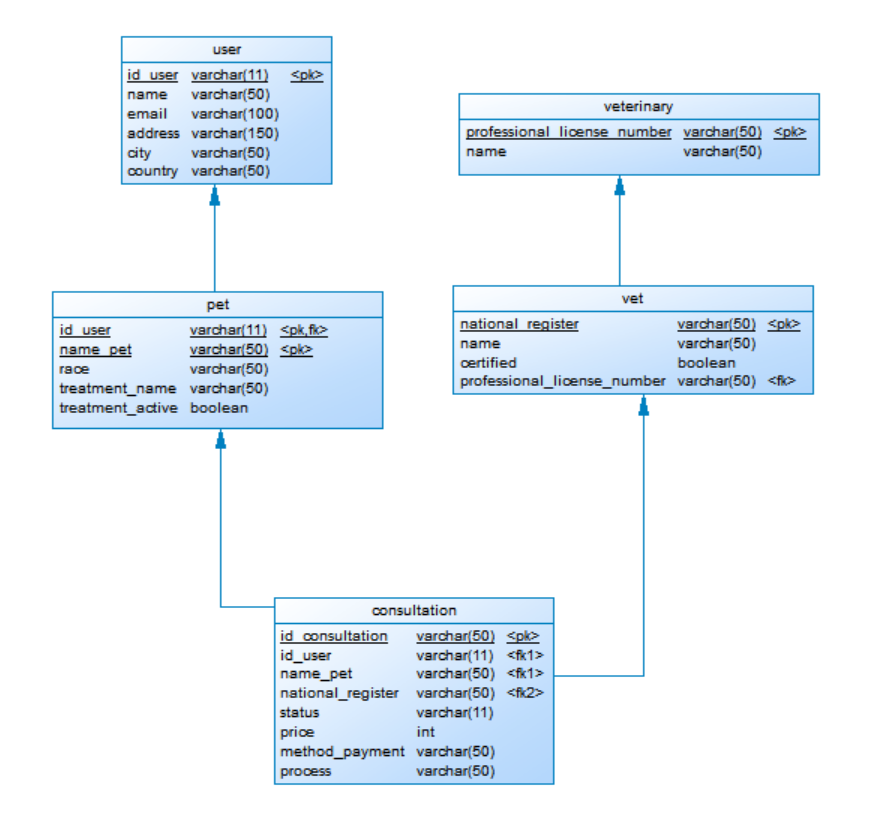
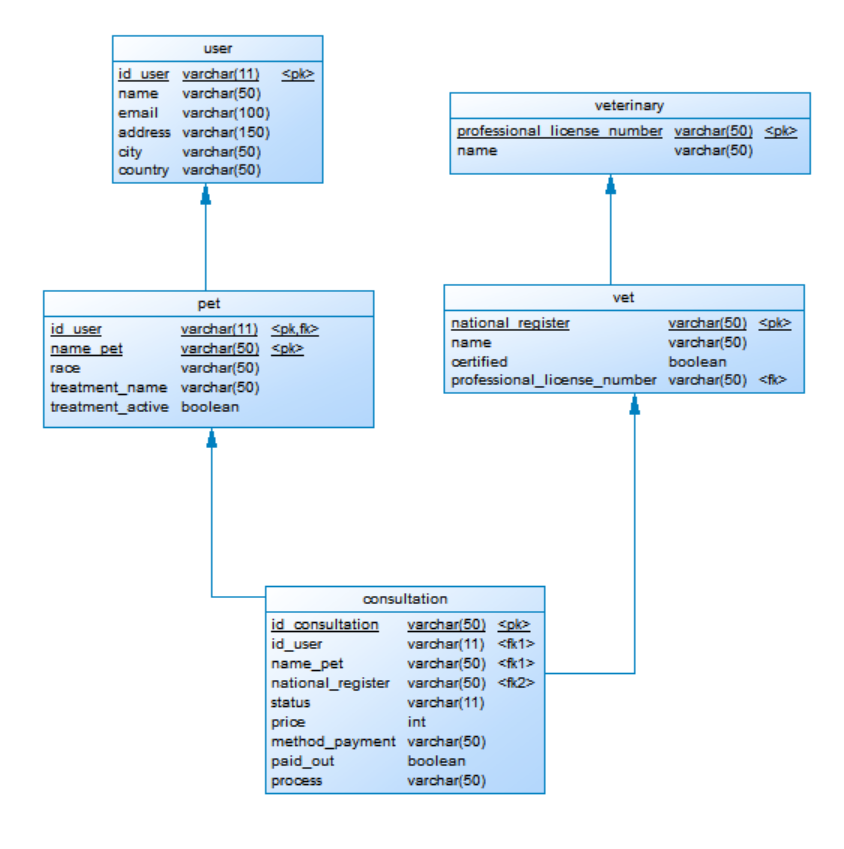
fix: add logic to save and delete consultation

Changed region(s): [[0.0308, 0.0301, 0.9858, 0.9627]]

diff --git a/api-medical-consultation/src/main/java/cl/huellaschile/medicalcon/infrastructure/adapters/output/persistence/ConsultationPersistenceAdapter.java b/api-medical-consultation/src/main/java/cl/huellaschile/medicalcon/infrastructure/adapters/output/persistence/ConsultationPersistenceAdapter.java
@@ -1,13 +1,20 @@
 package cl.huellaschile.medicalcon.infrastructure.adapters.output.persistence;
 
 import cl.huellaschile.medicalcon.application.ports.output.ConsultationOutputPort;
+import cl.huellaschile.medicalcon.domain.exception.APIException;
 import cl.huellaschile.medicalcon.infrastructure.adapters.input.rest.data.request.ConsultationCreateRequest;
 import cl.huellaschile.medicalcon.infrastructure.adapters.input.rest.data.response.ConsultationCreateResponse;
 import cl.huellaschile.medicalcon.infrastructure.adapters.input.rest.mapper.ConsultationRestMapper;
 import cl.huellaschile.medicalcon.infrastructure.adapters.output.persistence.entity.ConsultationEntity;
 import cl.huellaschile.medicalcon.infrastructure.adapters.output.persistence.repository.ConsultationRepository;
 import lombok.RequiredArgsConstructor;
+import org.springframework.context.MessageSource;
+import org.springframework.context.i18n.LocaleContextHolder;
+import org.springframework.http.HttpStatus;
 import org.springframework.stereotype.Repository;
+
+import java.util.List;
+import java.util.Optional;
 
 @Repository
 @RequiredArgsConstructor
@@ -15,15 +22,52 @@ public class ConsultationPersistenceAdapter implements ConsultationOutputPort {
 
     private final ConsultationRepository consultationRepository;
     private final ConsultationRestMapper consultationRestMapper;
+    private final MessageSource messages;
 
     @Override
     public ConsultationCreateResponse save(ConsultationCreateRequest consultation) {
-        ConsultationEntity consultationEntity = consultationRestMapper.toConsultationEntity(consultation);
-        return consultationRestMapper.toConsultationCreateResponse(consultationRepository.save(consultationEntity));
+        final boolean petExistInOpenConsultation = consultationRepository
+                .existsByNamePetEqualsIgnoreCaseAndStatusEqualsIgnoreCase(consultation.getNamePet(), "open");
+        if (petExistInOpenConsultation) {
+            final String rspFormatMsg = messages.getMessage("consultation.pet.exist", null, LocaleContextHolder.getLocale());
+            final String responseMessage = String.format(rspFormatMsg, consultation.getConsultationId(), consultation.getNamePet());
+            throw new APIException(responseMessage, HttpStatus.CONFLICT);
+        } else {
+            final Optional<List<ConsultationEntity>> consultationEntityList = consultationRepository.findByNamePetEqualsIgnoreCase(consultation.getNamePet());
+            if (consultationEntityList.isPresent() && !consultationEntityList.get().isEmpty()) {
+                ConsultationEntity consultationEntity = consultationEntityList.get().stream().findFirst().get();
+                if (consultationEntity.getNationalRegister().equalsIgnoreCase(consultation.getNationalRegister())) {
+                    return doSave(consultation);
+                } else {
+                    final String rspFormatMsg = messages.getMessage("consultation.cant.create.other.vet", null, LocaleContextHolder.getLocale());
+                    throw new APIException(rspFormatMsg, HttpStatus.CONFLICT);
+                }
+            } else {
+                return doSave(consultation);
+            }
+        }
     }
 
     @Override
     public void deleteById(String id) {
-        consultationRepository.deleteById(id);
+        Optional<ConsultationEntity> consultation = consultationRepository.findById(id);
+        if (consultation.isPresent()) {
+            if (consultation.get().getStatus().equalsIgnoreCase("open") || consultation.get().getStatus().equalsIgnoreCase("treatment")) {
+                final String rspFormatMsg = messages.getMessage("consultation.not.exist.message", null, LocaleContextHolder.getLocale());
+                final String responseMessage = String.format(rspFormatMsg, id);
+                throw new APIException(responseMessage, HttpStatus.CONFLICT);
+            } else {
+                consultationRepository.deleteById(id);
+            }
+        } else {
+            final String rspFormatMsg = messages.getMessage("consultation.cant.delete.status", null, LocaleContextHolder.getLocale());
+            final String responseMessage = String.format(rspFormatMsg, id);
+            throw new APIException(responseMessage, HttpStatus.CONFLICT);
+        }
+    }
+
+    private ConsultationCreateResponse doSave(ConsultationCreateRequest consultation) {
+        ConsultationEntity consultationEntity = consultationRestMapper.toConsultationEntity(consultation);
+        return consultationRestMapper.toConsultationCreateResponse(consultationRepository.save(consultationEntity));
     }
 }

diff --git a/api-medical-consultation/src/main/java/cl/huellaschile/medicalcon/infrastructure/adapters/output/persistence/repository/ConsultationRepository.java b/api-medical-consultation/src/main/java/cl/huellaschile/medicalcon/infrastructure/adapters/output/persistence/repository/ConsultationRepository.java
@@ -4,6 +4,12 @@ import cl.huellaschile.medicalcon.infrastructure.adapters.output.persistence.ent
 import org.springframework.data.repository.CrudRepository;
 import org.springframework.stereotype.Repository;
 
+import java.util.List;
+import java.util.Optional;
+
 @Repository
 public interface ConsultationRepository extends CrudRepository<ConsultationEntity, String> {
+    Boolean existsByNamePetEqualsIgnoreCaseAndStatusEqualsIgnoreCase(String namePet, String status);
+
+    Optional<List<ConsultationEntity>> findByNamePetEqualsIgnoreCase(String namePet);
 }

diff --git a/api-medical-consultation/src/main/java/cl/huellaschile/medicalcon/infrastructure/adapters/output/persistence/entity/ConsultationEntity.java b/api-medical-consultation/src/main/java/cl/huellaschile/medicalcon/infrastructure/adapters/output/persistence/entity/ConsultationEntity.java
@@ -36,6 +36,9 @@ public class ConsultationEntity {
     @Column(name = "method_payment")
     @NonNull
     private String methodPayment;
+    @Column(name = "paid_out")
+    @NonNull
+    private Boolean paidOut;
     @Column(name = "process")
     @NonNull
     private String process;

diff --git a/api-medical-consultation/src/main/java/cl/huellaschile/medicalcon/infrastructure/adapters/input/rest/data/request/ConsultationCreateRequest.java b/api-medical-consultation/src/main/java/cl/huellaschile/medicalcon/infrastructure/adapters/input/rest/data/request/ConsultationCreateRequest.java
@@ -35,6 +35,8 @@ public class ConsultationCreateRequest {
     @NotBlank
     @Size(min = 1, max = 50)
     private String methodPayment;
+    @NotNull
+    private Boolean paidOut;
     @NotBlank
     @Size(min = 1, max = 50)
     private String process;
